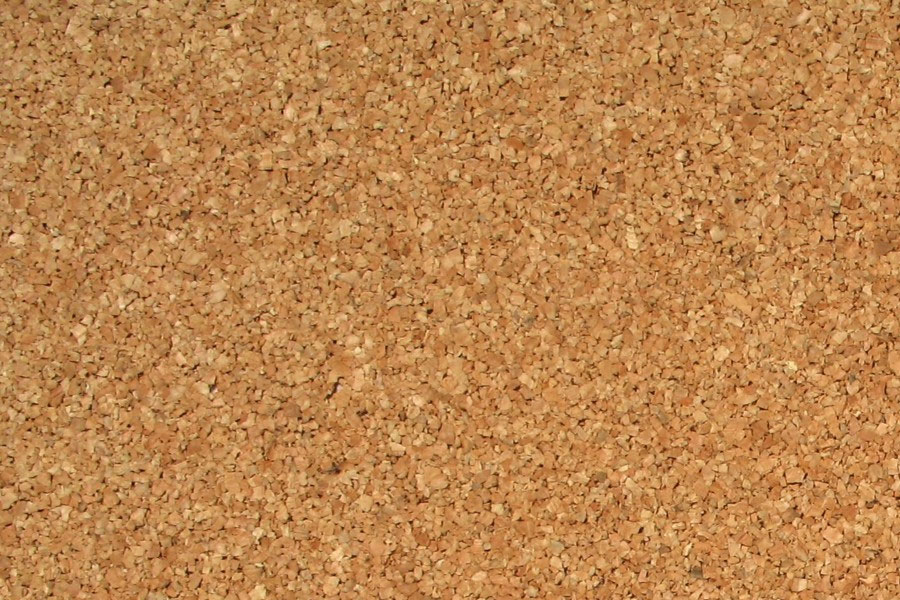
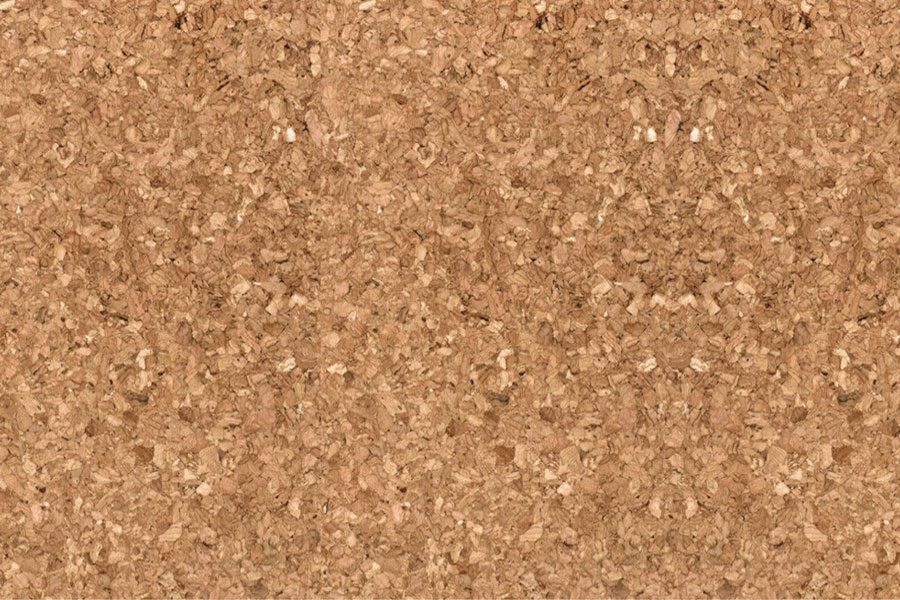
Changed 2 default background
Added image for the 6th selection (No background).

diff --git a/www/index.html b/www/index.html
@@ -911,7 +911,7 @@
 									<li class="ui-state-default"><img height="120" width="180" src="../images/bg3.jpg"></img></li>
 									<li class="ui-state-default"><img height="120" width="180" src="../images/bg4.jpg"></img></li>
 									<li class="ui-state-default"><img height="120" width="180" src="../images/bg5.jpg"></img></li>
-									<li class="ui-state-default"><img height="120" width="180" id="bgimageHolder" src=""></img></li>
+									<li class="ui-state-default"><img height="120" width="180" id="bgimageHolder" src="../images/bg6.jpg"></img></li>
 								</ul>
 								<center>
 								<p><input type="text" id="bgimageurl" onblur="bgpreloadImage()" placeholder="<Custom Image Url - 900 x 600>"></p>
